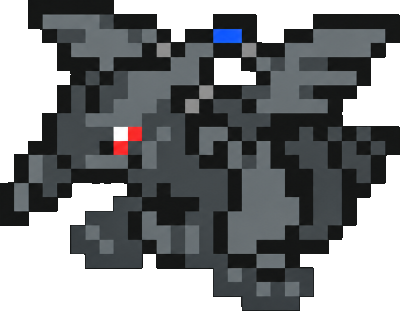
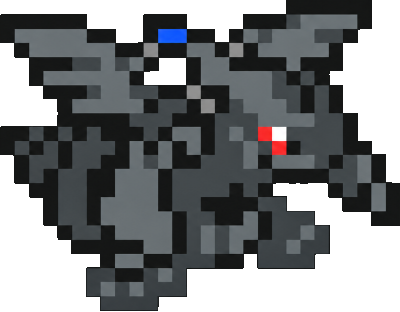
Flip Zekrom to face right and reword the README

diff --git a/README.md b/README.md
@@ -16,7 +16,7 @@ My personal portfolio, made to highlight my projects, hobbies and career.
 
 ## About
 
-This is the source code for my portfolio site, [ahdmuh.me](https://ahdmuh.me). There's also a small game and a few fun easter eggs in there :)
+This is the source code for my portfolio site, [ahdmuh.me](https://ahdmuh.me). There's also a small game and a few fun easter eggs scattered about :)
 
 ## Credits
 
